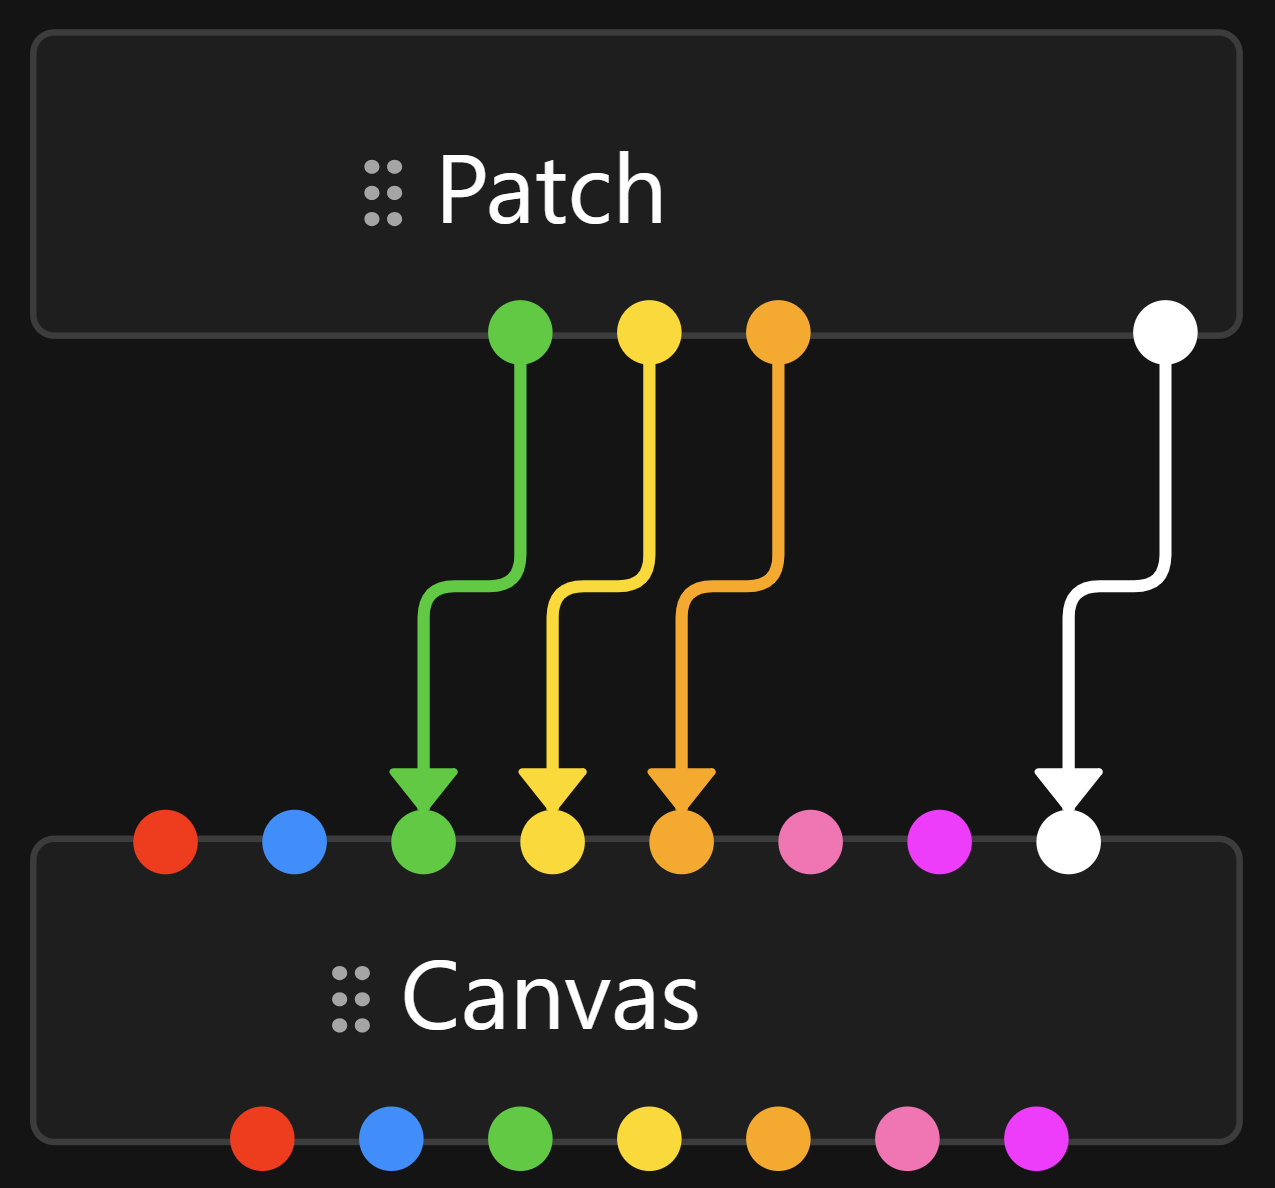
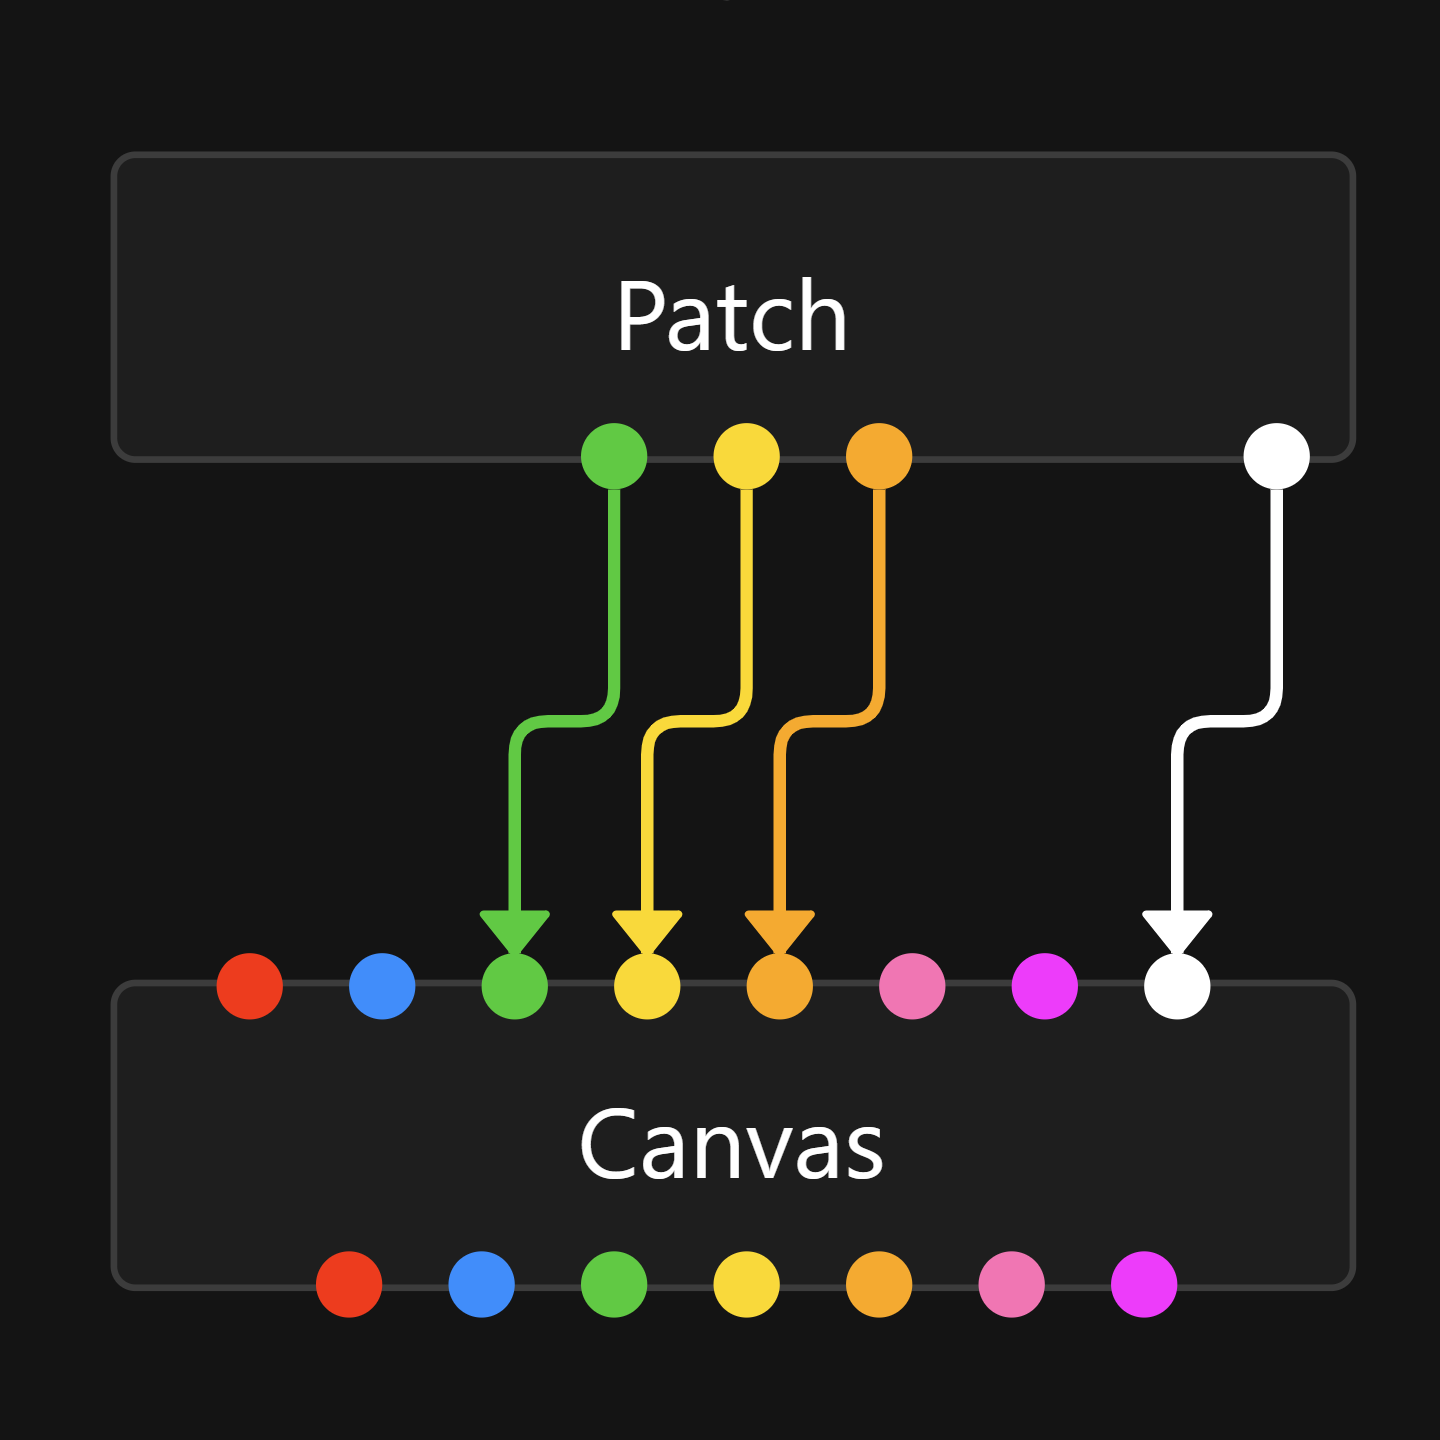
Improve fullscreen preview cleanliness

Changed region(s): [[0.0, 0.0, 0.9788, 0.9966], [0.0, 0.0311, 0.0306, 0.2803]]

diff --git a/src/print.css b/src/print.css
@@ -10,6 +10,10 @@
 	display: none;
 }
 
+.svelte-flow__node .label > * {
+	display: none;
+}
+
 .svelte-flow__handle,
 .group {
 	print-color-adjust: exact
